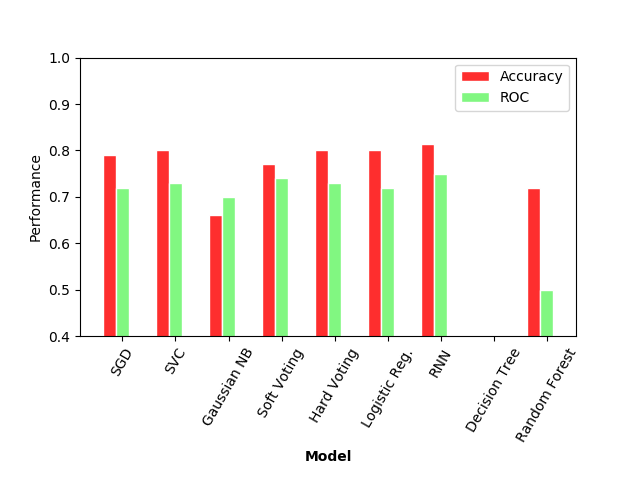
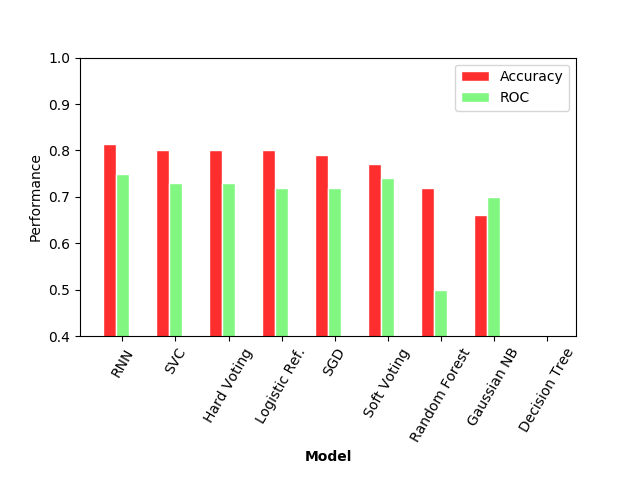
Model Comparison ordered by accuracy

diff --git a/3 Data Modeling/Predictive/modelComparison.py b/3 Data Modeling/Predictive/modelComparison.py
@@ -6,24 +6,20 @@ import pandas as pd
 # set width of bar
 barWidth = 0.25
 
-accuracy = [0.79,0.8,0.66,0.77,0.8,0.8,0.814,0.0,0.72]
-roc =      [0.72,0.73,0.7,0.74,0.73,0.72,0.75,0.0,0.5]
-
-
-# values = [accuracy, roc]
-# df = pd.DataFrame(values, columns=['accuracy', 'roc'],
-#     index=['SGD','SVC','GaussianNB', 'Soft Voting', 'Hard Voting', 'Logistic Reg.', 'RNN', 'Decision Tree', 'Random Forest'])
-# df.loc[len(df)] = [0.79, 0.72] #SGD
-# df.loc[len(df)] = [0.8, 0.73] #SVC
-# df.loc[len(df)] = [0.66, 0.7] #GNB
-# df.loc[len(df)] = [0.77, 0.74] #Soft
-# df.loc[len(df)] = [0.8, 0.73] #Hard
-# df.loc[len(df)] = [0.8, 0.72] #Logistic
-# df.loc[len(df)] = [0.814, 0.75] #RNN
-# df.loc[len(df)] = [0, 0] #Tree
-# df.loc[len(df)] = [0.72, 0.5] #RF
-# df.sort_values(by='accuracy', ascending=False)
-# print(df)
+#results for prediction analysis
+df = pd.DataFrame(columns=['accuracy', 'roc'])
+df.loc['SGD'] = [0.79, 0.72] #SGD
+df.loc['SVC'] = [0.8, 0.73] #SVC
+df.loc['Gaussian NB'] = [0.66, 0.7] #GNB
+df.loc['Soft Voting'] = [0.77, 0.74] #Soft
+df.loc['Hard Voting'] = [0.8, 0.73] #Hard
+df.loc['Logistic Ref.'] = [0.8, 0.72] #Logistic
+df.loc['RNN'] = [0.814, 0.75] #RNN
+df.loc['Decision Tree'] = [0, 0] #Tree
+df.loc['Random Forest'] = [0.72, 0.5] #RF
+df = df.sort_values(by='accuracy', ascending=False)
+accuracy = df['accuracy'].tolist()
+roc = df['roc'].tolist()
 
 # Set position of bar on X axis
 r1 = np.arange(len(accuracy))
@@ -36,7 +32,7 @@ plt.bar(r2, roc, color='#81F781', width=barWidth, edgecolor='white', label='roc'
 
 # Add xticks on the middle of the group bars
 plt.xlabel('group', fontweight='bold')
-plt.xticks([r + barWidth for r in range(len(accuracy))], ['SGD','SVC','Gaussian NB', 'Soft Voting', 'Hard Voting', 'Logistic Reg.', 'RNN', 'Decision Tree', 'Random Forest'])
+plt.xticks([r + barWidth for r in range(len(accuracy))], df.index.values)
 plt.xticks(rotation=60)
 
 #Labels
